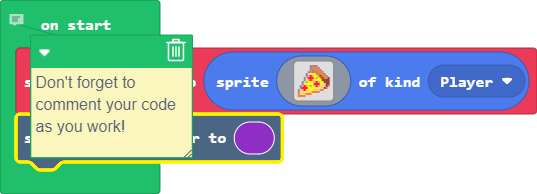
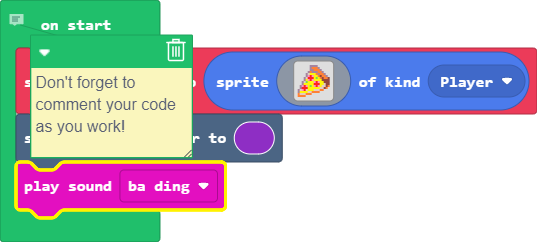
Update main.blocks, main.ts

diff --git a/main.ts b/main.ts
@@ -18,3 +18,4 @@ let mySprite = sprites.create(img`
     4 4 4 4 . . . . . . . . . . . . 
     `, SpriteKind.Player)
 scene.setBackgroundColor(10)
+music.baDing.play()
